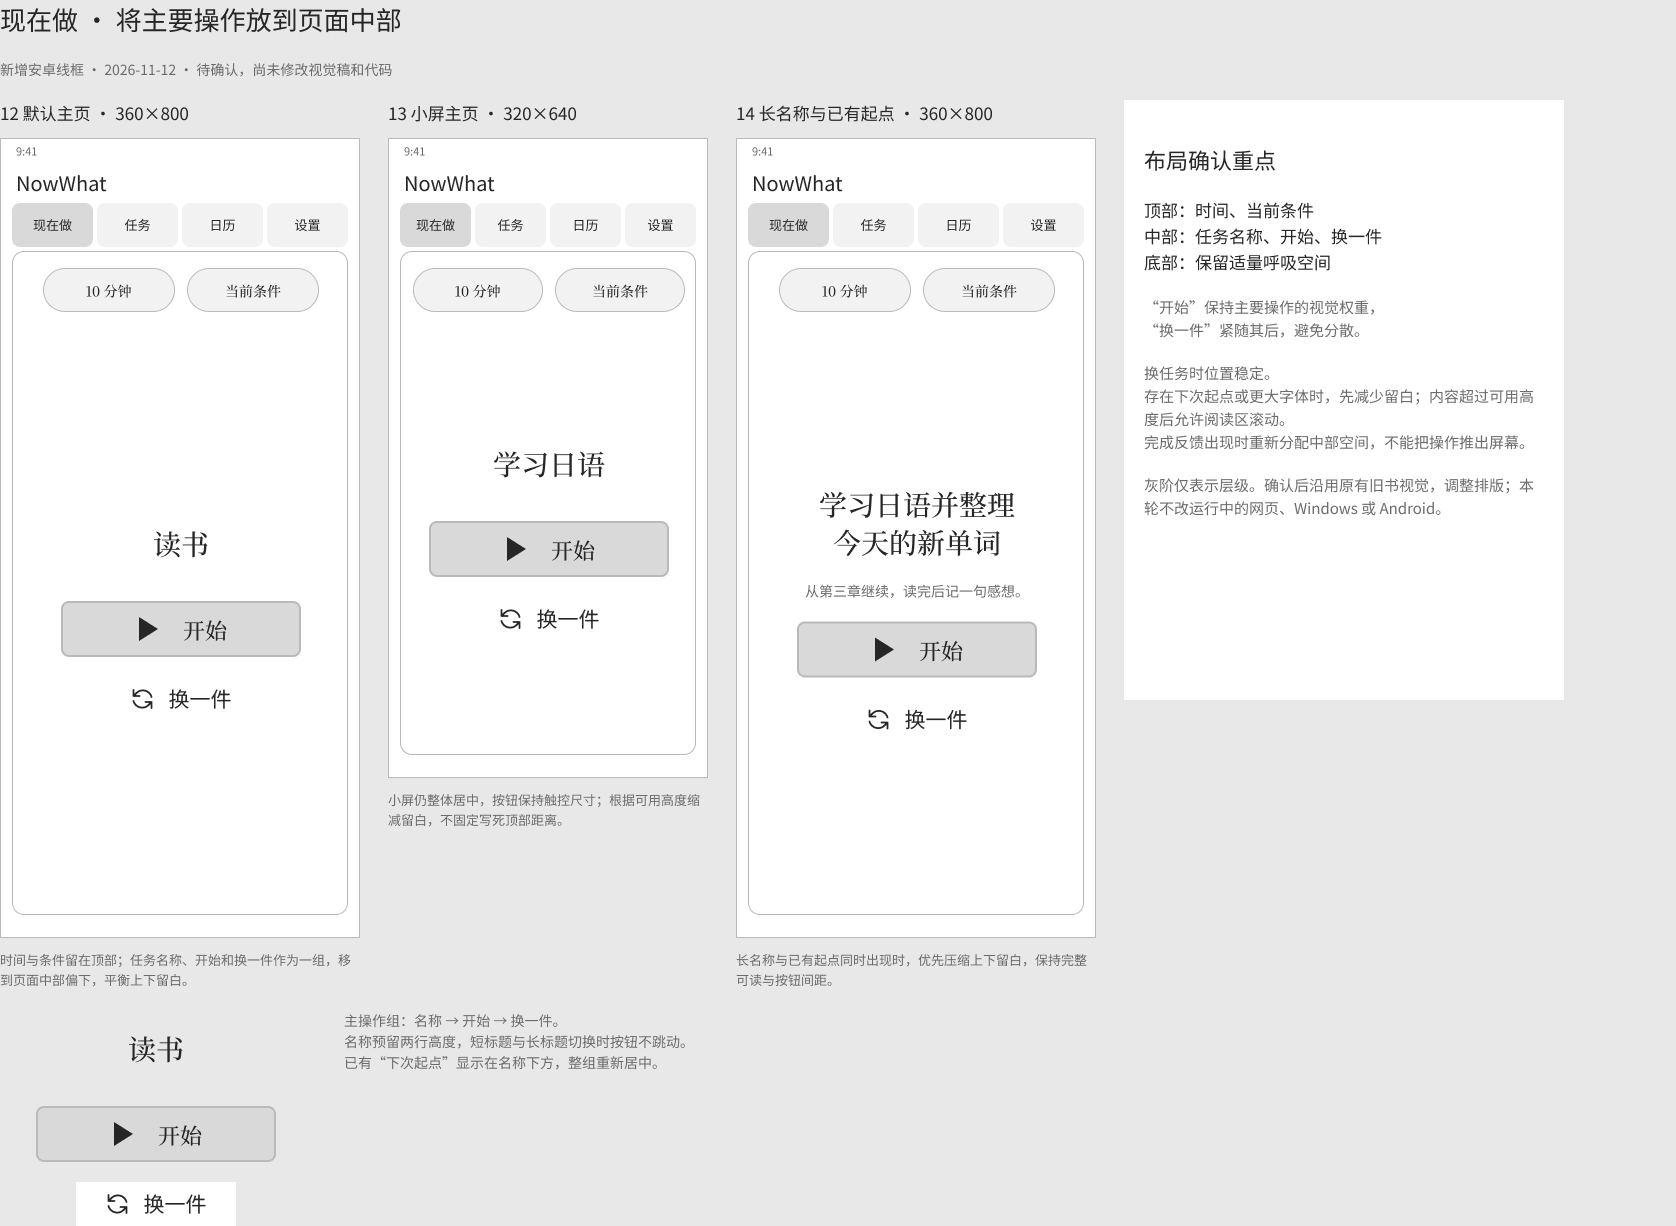
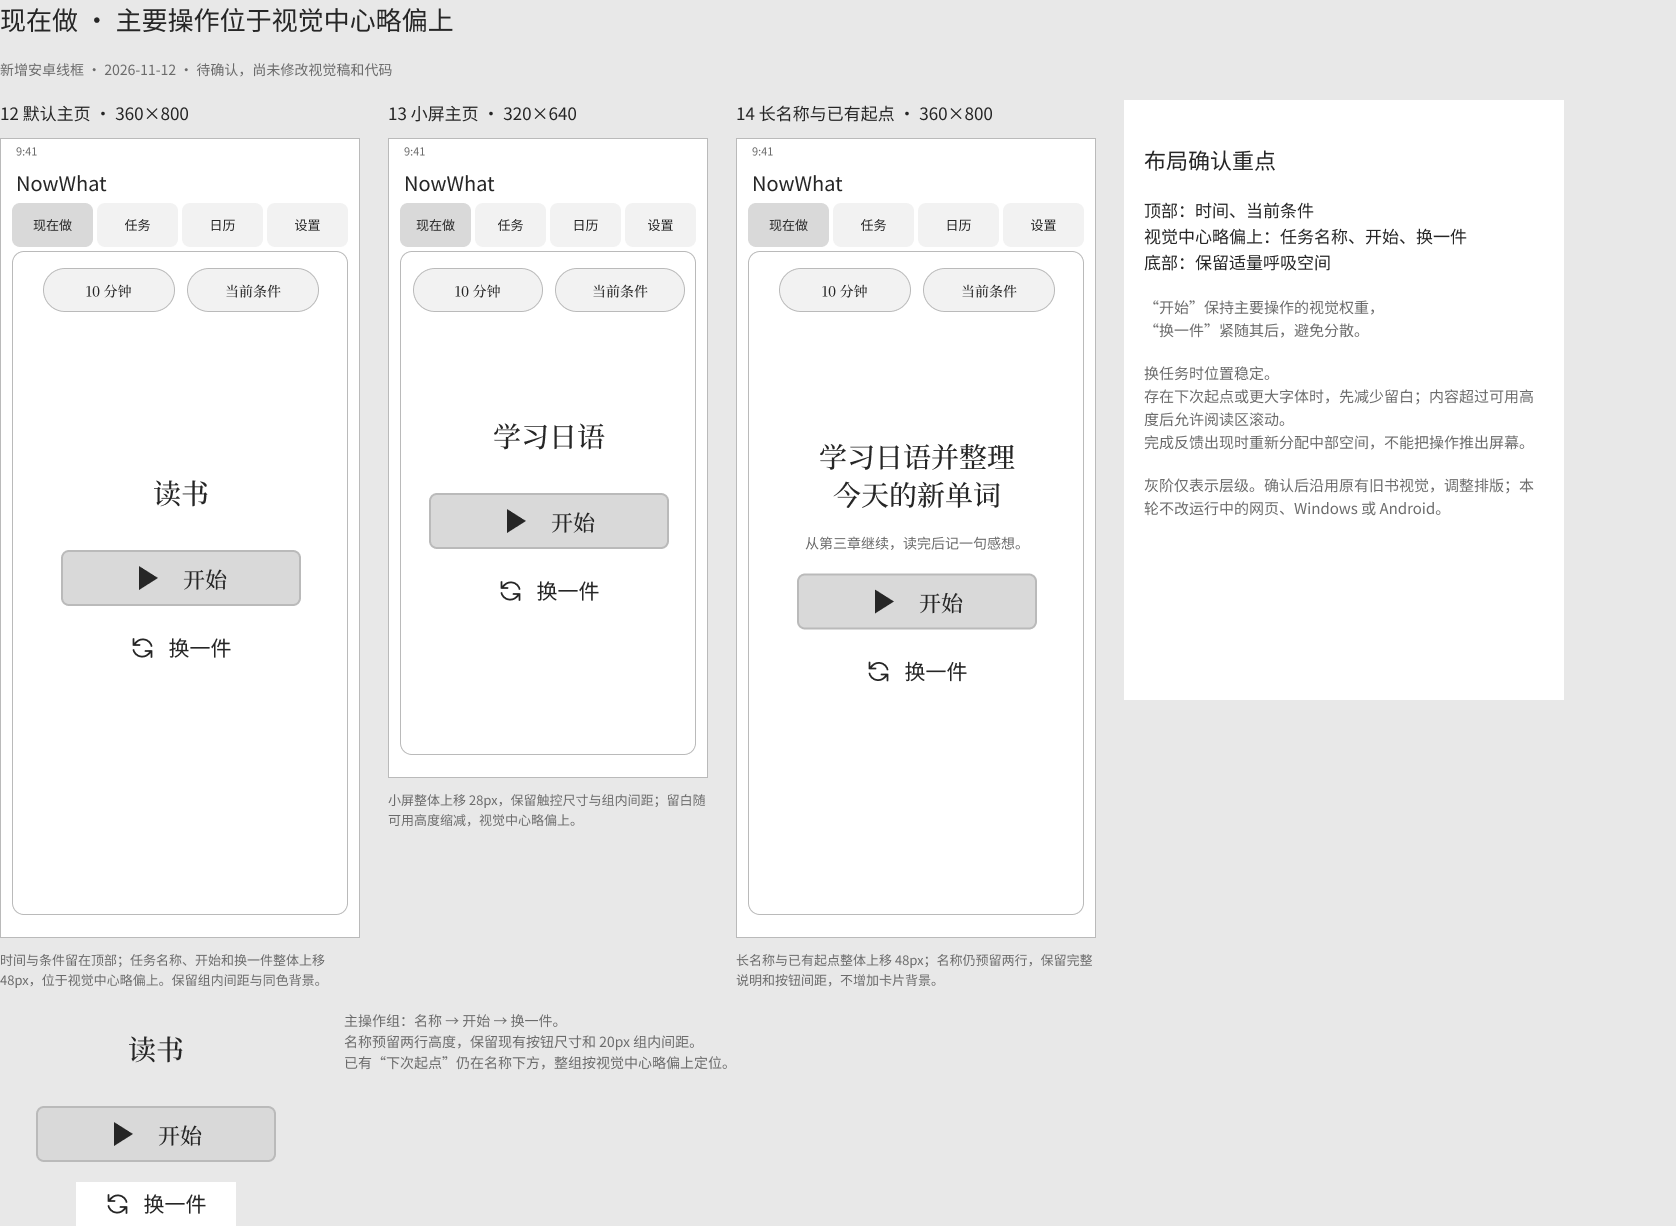
design: raise Android home draft action groups

diff --git a/docs/deployment/android-wireframes-2026-11-11/add-home-wireframes.js b/docs/deployment/android-wireframes-2026-11-11/add-home-wireframes.js
@@ -18,7 +18,7 @@ function text(parent,value,size=14,width,key='ink'){const n=track(figma.createTe
 function pill(parent,label,w){const n=track(pillSource.createInstance());parent.appendChild(n);n.resize(w,44);n.name=label;fill(n,'field');n.strokes=[paint('border')];n.effects=[];const t=n.findAllWithCriteria({types:['TEXT']})[0];t.characters=label;t.fontSize=14;fill(t,'ink');return n;}
 function gray(n,key){fill(n,key);n.effects=[];for(const c of n.findAll(()=>true)){if(c.type==='TEXT')fill(c,'ink');if(c.type==='VECTOR'){if(Array.isArray(c.fills)&&c.fills.length)fill(c,'ink');if(Array.isArray(c.strokes)&&c.strokes.length)c.strokes=[paint('ink')];}}}
 const section=frame(board,'00 / Now / balanced mobile home · 2026-11-12',1676,100);board.insertChild(4,section);section.primaryAxisSizingMode='AUTO';section.itemSpacing=20;
-text(section,'现在做 · 将主要操作放到页面中部',26);
+text(section,'现在做 · 主要操作位于视觉中心略偏上',26);
 text(section,'新增安卓线框 · 2026-11-12 · 待确认，尚未修改视觉稿和代码',14,undefined,'muted');
 const row=frame(section,'Home review states',1676,100,'HORIZONTAL');row.primaryAxisSizingMode='AUTO';row.counterAxisSizingMode='AUTO';row.itemSpacing=28;
 const masters=frame(section,'Home action group / local reusable component',1676,100,'HORIZONTAL');masters.counterAxisSizingMode='AUTO';masters.itemSpacing=32;
@@ -30,7 +30,7 @@ const nextKey=core.addComponentProperty('Next step','TEXT',next.characters);cons
 const start=track(startSource.createInstance());core.appendChild(start);start.resize(240,56);start.name='Start / primary';gray(start,'selected');start.strokes=[paint('border')];start.cornerRadius=8;
 const startLabel=start.findAllWithCriteria({types:['TEXT']})[0];startLabel.fontSize=22;
 const change=track(changeSource.createInstance());core.appendChild(change);change.name='Change / secondary';gray(change,'paper');change.resize(160,44);
-const note=text(masters,'主操作组：名称 → 开始 → 换一件。\n名称预留两行高度，短标题与长标题切换时按钮不跳动。\n已有“下次起点”显示在名称下方，整组重新居中。',14,660,'muted');
+const note=text(masters,'主操作组：名称 → 开始 → 换一件。\n名称预留两行高度，保留现有按钮尺寸和 20px 组内间距。\n已有“下次起点”仍在名称下方，整组按视觉中心略偏上定位。',14,660,'muted');
 const screens=[];
 function make(label,w,h,name,hasStep=false){
  const column=frame(row,label,w,100);column.itemSpacing=12;column.primaryAxisSizingMode='AUTO';text(column,label,17,w);
@@ -40,9 +40,13 @@ function make(label,w,h,name,hasStep=false){
  const nav=screen.children.find(n=>n.name==='Navigation');for(const tab of nav.children)fill(tab,tab.name==='Tab / 现在做'?'selected':'field');
  const controls=frame(book,'Time and conditions / top utility row',w-48,44,'HORIZONTAL');controls.primaryAxisAlignItems='CENTER';controls.itemSpacing=12;
  pill(controls,'10 分钟',Math.min(132,(w-60)/2));pill(controls,'当前条件',Math.min(132,(w-60)/2));
- const area=frame(book,'Flexible focus area / vertically centered',w-48,100);area.layoutSizingVertical='FILL';area.primaryAxisAlignItems='CENTER';area.counterAxisAlignItems='CENTER';
+ const area=frame(book,'Flexible focus area / optical center above midpoint',w-48,100);area.layoutSizingVertical='FILL';area.primaryAxisAlignItems='CENTER';area.counterAxisAlignItems='CENTER';
+ // Extra bottom padding moves the centered group upward without changing its internals.
+ const opticalOffset=Math.max(0,Math.min(48,28+(h-640)/8));area.paddingBottom=opticalOffset*2;
  const content=track(core.createInstance());area.appendChild(content);content.setProperties({[taskKey]:name,[hasNext]:hasStep});content.resize(w-48,content.height);content.layoutSizingVertical='HUG';
- text(column,hasStep?'长名称与已有起点同时出现时，优先压缩上下留白，保持完整可读与按钮间距。':h<700?'小屏仍整体居中，按钮保持触控尺寸；根据可用高度缩减留白，不固定写死顶部距离。':'时间与条件留在顶部；任务名称、开始和换一件作为一组，移到页面中部偏下，平衡上下留白。',13,w,'muted');
+ // Preserve the user's live 222px default-group override, read before the optical correction.
+ if(w===360&&h===800&&!hasStep){content.layoutSizingVertical='FIXED';content.resize(w-48,222);}
+ text(column,hasStep?'长名称与已有起点整体上移 48px；名称仍预留两行，保留完整说明和按钮间距，不增加卡片背景。':h<700?'小屏整体上移 28px，保留触控尺寸与组内间距；留白随可用高度缩减，视觉中心略偏上。':'时间与条件留在顶部；任务名称、开始和换一件整体上移 48px，位于视觉中心略偏上。保留组内间距与同色背景。',13,w,'muted');
  screens.push({id:screen.id,name:label,width:w,height:h,focusGroupId:content.id});return screen;
 }
 make('12 默认主页 · 360×800',360,800,'读书');
@@ -50,7 +54,7 @@ make('13 小屏主页 · 320×640',320,640,'学习日语');
 make('14 长名称与已有起点 · 360×800',360,800,'学习日语并整理\n今天的新单词',true);
 const notes=frame(row,'Layout decisions pending approval',440,600);notes.paddingTop=44;notes.paddingLeft=20;notes.paddingRight=20;notes.itemSpacing=20;fill(notes,'paper');
 text(notes,'布局确认重点',22);
-text(notes,'顶部：时间、当前条件\n中部：任务名称、开始、换一件\n底部：保留适量呼吸空间',17,400);
+text(notes,'顶部：时间、当前条件\n视觉中心略偏上：任务名称、开始、换一件\n底部：保留适量呼吸空间',17,400);
 text(notes,'“开始”保持主要操作的视觉权重，\n“换一件”紧随其后，避免分散。',15,400,'muted');
 text(notes,'换任务时位置稳定。\n存在下次起点或更大字体时，先减少留白；内容超过可用高度后允许阅读区滚动。\n完成反馈出现时重新分配中部空间，不能把操作推出屏幕。',15,400,'muted');
 text(notes,'灰阶仅表示层级。确认后沿用原有旧书视觉，调整排版；本轮不改运行中的网页、Windows 或 Android。',15,400,'muted');

diff --git a/docs/deployment/android-wireframes-2026-11-11/raise-home-wireframes.js b/docs/deployment/android-wireframes-2026-11-11/raise-home-wireframes.js
@@ -1,0 +1,26 @@
+// Draft-only, idempotent optical-position correction. Run after whoami/session.
+await figma.setCurrentPageAsync(await figma.getNodeByIdAsync('49:243'));
+const section=figma.getNodeById('516:10138');
+const pairs=[['516:10157','516:10192',48],['516:10206','516:10241',28],['516:10255','516:10290',48]];
+const annotations={
+ '516:10139':'现在做 · 主要操作位于视觉中心略偏上',
+ '516:10203':'时间与条件留在顶部；任务名称、开始和换一件整体上移 48px，位于视觉中心略偏上。保留组内间距与同色背景。',
+ '516:10252':'小屏整体上移 28px，保留触控尺寸与组内间距；留白随可用高度缩减，视觉中心略偏上。',
+ '516:10301':'长名称与已有起点整体上移 48px；名称仍预留两行，保留完整说明和按钮间距，不增加卡片背景。',
+ '516:10304':'顶部：时间、当前条件\n视觉中心略偏上：任务名称、开始、换一件\n底部：保留适量呼吸空间',
+ '516:10154':'主操作组：名称 → 开始 → 换一件。\n名称预留两行高度，保留现有按钮尺寸和 20px 组内间距。\n已有“下次起点”仍在名称下方，整组按视觉中心略偏上定位。'
+};
+for(const id of Object.keys(annotations)){const t=figma.getNodeById(id);for(const s of t.getStyledTextSegments(['fontName']))await figma.loadFontAsync(s.fontName);}
+const bounds=(g,s)=>({x:g.absoluteBoundingBox.x-s.absoluteBoundingBox.x,y:g.absoluteBoundingBox.y-s.absoluteBoundingBox.y,width:g.width,height:g.height});
+const snapshot=g=>JSON.stringify({w:g.width,h:g.height,spacing:g.itemSpacing,padding:[g.paddingTop,g.paddingBottom,g.paddingLeft,g.paddingRight],fills:g.fills,strokes:g.strokes,children:g.children.map(n=>({id:n.id,x:n.x,y:n.y,w:n.width,h:n.height,visible:n.visible}))});
+const changed=[],states=[];
+for(const [sid,gid,shift]of pairs){const s=figma.getNodeById(sid),g=figma.getNodeById(gid),area=g.parent,utility=s.findOne(n=>n.name==='Time and conditions / top utility row');
+const before=bounds(g,s),internal=snapshot(g),utilityBefore=bounds(utility,s);
+area.paddingBottom=area.paddingTop+shift*2;area.name='Flexible focus area / optical center above midpoint';changed.push(area.id);
+const after=bounds(g,s);if(snapshot(g)!==internal)throw Error('Internal layout changed '+gid);
+if(JSON.stringify(bounds(utility,s))!==JSON.stringify(utilityBefore))throw Error('Utility moved '+sid);
+if(after.y<utilityBefore.y+utilityBefore.height||after.y+after.height>s.height)throw Error('Overflow '+sid);
+states.push({screen:sid,group:gid,screenSize:[s.width,s.height],before,after,movedUp:before.y-after.y,offsetAboveAreaCenter:shift,areaPaddingBottom:area.paddingBottom,internalLayoutPreserved:true,utility:utilityBefore});}
+for(const [id,value]of Object.entries(annotations)){const t=figma.getNodeById(id);t.characters=value;changed.push(id);}
+return{mutatedNodeIds:changed,sectionId:section.id,states};
+

diff --git a/docs/deployment/android-wireframes-2026-11-11/README.md b/docs/deployment/android-wireframes-2026-11-11/README.md
@@ -15,11 +15,27 @@ Verified Figma account handle `3966592487` before project access. Session `efb45
 
 ## Proposed layout
 
-**Now/home (added 2026-11-12).** The user reported that the task name, Start and Change controls sit too high. Keep time and current conditions in the top utility row; center the task/action group in the remaining page area, with Start primary and Change directly underneath. Reserve two lines for the task name so changing between short and long names does not move the controls. Existing next-step text participates in the group's layout. On small screens or with larger text, reduce free space before permitting content scrolling; never hide the primary controls. The review includes 360×800 default, 320×640 compact, and 360×800 long-title/next-step states. These are reference sizes, not measured OPPO viewports.
+**Now/home (added and revised 2026-11-12).** The latest feedback is that geometric centering makes the task/action group look too low against the uniform background. Keep time and current conditions in the top utility row; place the group slightly above the remaining area's geometric center, with Start primary and Change directly underneath. Move the whole group without altering its internal spacing, control sizes, or background. Reserve two lines for the task name. Existing next-step text participates in the group's layout. On small screens or with larger text, reduce free space before permitting content scrolling; never hide the primary controls. The review includes 360×800 default, 320×640 compact, and 360×800 long-title/next-step states. These are reference sizes, not measured OPPO viewports.
 
-The home extension reuses the prior wireframe shell, navigation, gray variables and existing Start/Change/capsule components. Account `3966592487` was verified again; Figma session `420dc164-465c-4c9e-b4ab-79a89fd3bdf4`. It contains 55 editable text nodes, 47 frames, 20 instances, 8 vectors and one local reusable action-group component, with no image-filled nodes. Text families are Noto Sans SC and Noto Serif SC. Group top/height is 367/216 px in the default 800 px reference, 287/216 px in the compact 640 px reference, and 346.5/257 px for the long-title state. A screenshot review confirmed intact labels and controls; the component reference area's height was then adjusted to avoid cropping it. `home-figma-audit.json` records node IDs and `add-home-wireframes.js` reproduces the design-only extension. The earlier `wireframes.png` remains the November 11 snapshot; use `home-wireframes.png` for this extension.
+The home extension reuses the prior wireframe shell, navigation, gray variables and existing Start/Change/capsule components. Its original session was `420dc164-465c-4c9e-b4ab-79a89fd3bdf4`. It contains 55 editable text nodes, 47 frames, 20 instances, 8 vectors and one local reusable action-group component, with no image-filled nodes. Text families are Noto Sans SC and Noto Serif SC. `home-figma-audit.json` preserves the original creation audit; the latest positions below supersede its original bounds. `add-home-wireframes.js` reproduces the updated design-only extension. The earlier `wireframes.png` remains the November 11 snapshot; `home-wireframes.png` now shows the optical-center correction.
 
-This home layout also awaits user approval before visual or code changes. The user explicitly permitted this chat to finish the current Figma task; future design work must move to the existing `NowWhat | Figma UI 设计稿` chat or a new worktree chat. No application code, installer, APK or published site was changed.
+### Home optical-center correction — November 12
+
+Account `3966592487` was verified with whoami before access. Session: `735a8f94-63e8-41e8-9176-5f8f0b2b6240`. Only the three home focus-area containers and six explanatory text nodes changed. No task, calendar, editor, or approved visual frame was changed.
+
+| Reference state | Live group top before | Move up | Final group top | Preserved group height | Final bottom |
+| --- | ---: | ---: | ---: | ---: | ---: |
+| Default 360×800 | 364 px | 48 px | 316 px | 222 px | 538 px |
+| Compact 320×640 | 287 px | 28 px | 259 px | 216 px | 475 px |
+| Long title + next step 360×800 | 346.5 px | 48 px | 298.5 px | 257 px | 555.5 px |
+
+Coordinates are relative to the phone frame. The live default group's 222 px height differed from the original 216 px audit and was deliberately preserved. All three keep the 76 px two-line name reservation, 20 px inter-item spacing, 240×56 Start control and 160×44 Change control. Time/conditions stay at y=130 with height 44 px. No card fill or border was added to the action groups.
+
+The flexible focus area keeps center alignment with 96 px additional bottom padding on the 800 px references and 56 px on the compact reference. This shifts the group up by half that padding while retaining auto-layout. The reproduction script interpolates the offset from 28 to 48 px across these reference heights; this is a wireframe layout rule, not implemented responsive code. Before/after geometry and unchanged internal layout are recorded in `home-optical-center-audit.json`. `raise-home-wireframes.js` is an idempotent correction for the existing nodes and does not recreate them.
+
+The updated 1676×1226 screenshot was inspected: all three phone states show complete task titles, next-step text and controls within the viewport, with clear separation below the fixed utilities. No physical-device, browser interaction or user acceptance is claimed. The updated screenshot is `docs/deployment/android-wireframes-2026-11-11/home-wireframes.png`.
+
+This home layout still awaits user approval before visual or code changes. The optical-center correction was handed off to the existing Figma design chat, as requested. No application code, installer, APK or published site was changed; this handoff requires no additional chat.
 
 **Tasks.** Keep the app brand and four navigation tabs. Give the task page the remaining usable viewport. Center a short set of activities within the main content area; align each name, pin and Start control vertically. Keep Previous/Next in a stable bottom area, clear of the system inset. More activities use true pagination; the examples show six rows at 360×800 and four at 320×640. Actual capacity must use available height, font size and safe insets. Preserve pinning, dragging, editing and starting. Do not add a visible task page counter or “任务·续页”. Keep the current page/anchor when dismissing the editor.
 
